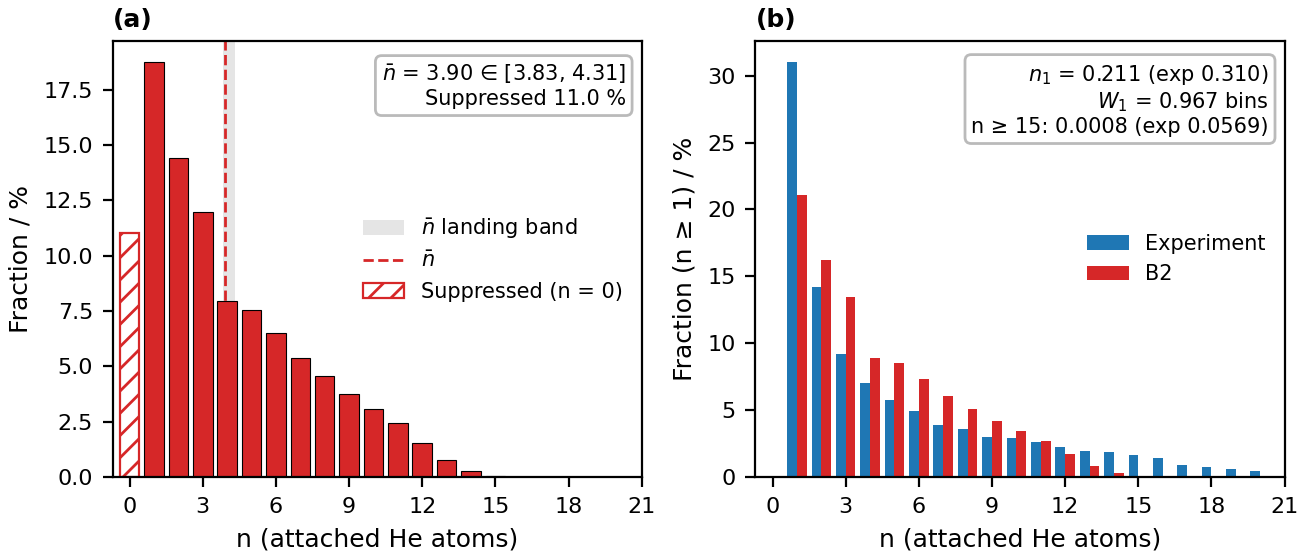
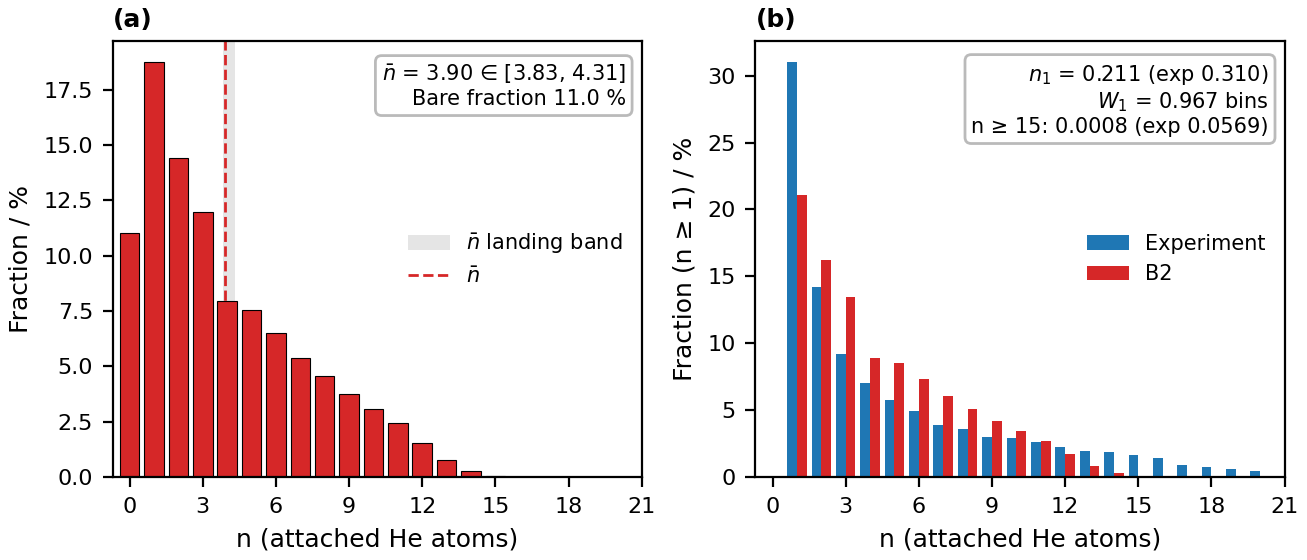
B2 thesis figures: decoupled pool, bare n = 0 bin (G13)
Figures B2-1..B2-4 now read data/runs/B2_N6000_pooled (decoupled release)
and anchor against the B2 row of g13_decoupled_table.csv. B2-1 (a): n = 0
drawn as a plain bar without legend entry, annotation "Bare fraction"
(n = 0 share of scored ions) replaces "Suppressed". Unused hatch style
removed; test for the bare bin added.

Changed region(s): [[0.2754, 0.3946, 0.4897, 0.5464], [0.0918, 0.3946, 0.1224, 0.85], [0.306, 0.1518, 0.4285, 0.2125]]

diff --git a/i2_helium_md/scripts/post_processing/tier2_b2_thesis_figure.py b/i2_helium_md/scripts/post_processing/tier2_b2_thesis_figure.py
@@ -1,13 +1,14 @@
 """Tier-2 thesis figures for the production law B2 (detected ensemble).
 
-Four figures, rendered from the pooled N = 6000 B2 container
-(``…g5lqppc160e3297pooled_th500``, s1-s5 + r6) at the thesis text width
+Four figures, rendered from the pooled N = 6000 B2 thesis container
+(``B2_N6000_pooled``, s1-s6, ``self_bound_gate_release = decoupled``,
+THESIS_FINAL_GOALS G13) at the thesis text width
 (``TEXTWIDTH_CM``) and written to ``data/figures/thesis_tier2/``. Pipeline
 vocabulary (scored / detected read, median anchor provenance, chi^2,
 smoothing window) lives in the captions, not on the figures:
 
 * **B2-1 size distribution** -- (a) scored histogram (droplet-retained
-  excluded; suppressed ions in the bare n = 0 bin, hatched), (b) solvated
+  excluded; bare I+ in the n = 0 bin, bare fraction annotated), (b) solvated
   branch (n >= 1 renormalized, RQ8) vs the experimental abundance, with
   n̄ against the MD landing band, n₁, W₁ and the n >= 15 mass annotated.
 * **B2-2 mean KE vs n** -- (a) n = 1-4 and (b) n = 5-17, linear, each on
@@ -37,9 +38,9 @@ B2-3); an override wins key by key
 Anchor guard: before drawing, every quoted scalar (n̄, suppressed, n₁,
 W₁, n >= 15 mass, midHot, deepKE, chi^2_med, KE₁, number of chi^2 bins,
 scored count) is
-checked against the committed B2 row of
-``data/runs/h2b_forward_model/g5_winners_table_ihekedv2.csv`` (scored
-against the corrected ihe_ked reference v2, G12) to 4 dp; a mismatch raises.
+checked against the decoupled B2 row of
+``data/runs/h2b_forward_model/g13_decoupled_table.csv`` (v2 scorer, the
+corrected ihe_ked reference, G12) to 4 dp; a mismatch raises.
 
 Edit the ``USER SETTINGS`` block and run::
 
@@ -65,13 +66,10 @@ for _p in (PROJECT_ROOT, _SCRIPT_DIR):
 # =============================================================================
 # USER SETTINGS
 # =============================================================================
-RUN_DIR: Path = (
-    PROJECT_ROOT / "data" / "runs"
-    / "9A_drag_srho3p5A18A_linear_quadratic_N6000_detfix_conf270_g5lqppc160e3297pooled_th500"
-)
-# G12: scored against the corrected ihe_ked reference (v2, 2026-10-23)
-WINNERS_CSV: Path = PROJECT_ROOT / "data" / "runs" / "h2b_forward_model" / "g5_winners_table_ihekedv2.csv"
-WINNERS_LABEL: str = "B2_pp_c160"
+RUN_DIR: Path = PROJECT_ROOT / "data" / "runs" / "B2_N6000_pooled"
+# G13: decoupled rows, v2 scorer (corrected ihe_ked reference, G12)
+WINNERS_CSV: Path = PROJECT_ROOT / "data" / "runs" / "h2b_forward_model" / "g13_decoupled_table.csv"
+WINNERS_LABEL: str = "B2"
 ANCHOR_CHECK: bool = True
 IHE_KED_REFERENCE_DIR: Path = PROJECT_ROOT / "data" / "reference" / "ihe_ked"
 ABUNDANCE_REF_PATH: Path = PROJECT_ROOT / "data" / "reference" / "integrated_i_he_abundance.csv"
@@ -109,7 +107,6 @@ FIG_B2_1: dict = {
     "n_xlim": (-0.7, 21.0),
     "bar_width_scored": 0.8,
     "bar_width_pair": 0.4,
-    "suppressed_hatch": "///",
     "show_landing_band": True,
     "annot_scored": True,
     "annot_solvated": True,
@@ -174,8 +171,8 @@ FIG_B2_2_SPLIT: dict = {
 
 FIG_B2_3: dict = {
     # The plot_detection_summary ihe_ked curve section for n = 1..6 (3 x 2)
-    # with the speed axis in Å/ps; n = 0 (suppressed vs bare I+) is a
-    # different population and is left out.
+    # with the speed axis in Å/ps; n = 0 (bare I+) is a different
+    # population and is left out.
     "stem": "b2_3_ked_shapes",
     "representation": "3d",              # "3d" (P(v)) | "2d" (detector projection)
     "n_values": (1, 2, 3, 4, 5, 6),      # n 5-7: extended exports, not verified
@@ -308,6 +305,7 @@ class SizeData:
     frac_ref_solv: np.ndarray
     n_mean: float
     suppressed_frac: float
+    bare_frac: float
     num_scored: int
     num_ions: int
     w1_solvated: float
@@ -320,16 +318,19 @@ class SizeData:
 def size_data(read, abundance, tail_n: int = FIG_B2_1["tail_n"]) -> SizeData:
     """Scorer read path of ``_section_detected_size_distribution``; the tail
     mass is the solvated share at ``n >= tail_n`` (the
-    ``mass_n15plus_solv`` column of ``tier2_g5_winners_table``)."""
+    ``mass_n15plus_solv`` column of ``tier2_g5_winners_table``); the bare
+    fraction is the n = 0 share of the scored histogram."""
     score = score_histogram_vs_reference(read, abundance)
     sim_n, sim_f = solvated_renormalized(read.n_values, read.fraction, n_min=score.n_min)
     ref_n, ref_f = solvated_renormalized(abundance.n, abundance.ion_fraction, n_min=score.n_min)
     sim_n, sim_f = np.asarray(sim_n), np.asarray(sim_f, dtype=float)
     ref_n, ref_f = np.asarray(ref_n), np.asarray(ref_f, dtype=float)
+    n_scored, frac_scored = np.asarray(read.n_values), np.asarray(read.fraction, dtype=float)
     return SizeData(
-        n_scored=np.asarray(read.n_values), frac_scored=np.asarray(read.fraction),
+        n_scored=n_scored, frac_scored=frac_scored,
         n_sim_solv=sim_n, frac_sim_solv=sim_f, n_ref_solv=ref_n, frac_ref_solv=ref_f,
         n_mean=float(read.n_mean), suppressed_frac=float(read.suppressed_frac),
+        bare_frac=float(frac_scored[n_scored == 0].sum()),
         num_scored=int(read.num_scored), num_ions=int(read.num_ions),
         w1_solvated=float(score.w1_solvated), sim_n1=float(score.sim_n1),
         ref_n1=float(score.ref_n1),
@@ -365,7 +366,7 @@ class KEData:
 def ke_data(read, ked_ref) -> KEData:
     """Same scorer kwargs as ``summary_sections._detected_ke_scores``;
     midHot / deepKE at their committed conventions (geometric / arithmetic,
-    ``min_count = 1``) -- the values in ``g5_winners_table.csv``."""
+    ``min_count = 1``) -- the values in ``g13_decoupled_table.csv``."""
     ke = read.ke_by_n(min_count=1)
     keep = ke.n >= DETECTED_KE_N_MIN
     chi2 = score_ke_curve_vs_reference(
@@ -454,7 +455,7 @@ def pv_data(view, ked_dir: Path, ked_ref, n: int, representation: str) -> PvData
 # Anchor guard
 # =============================================================================
 def anchor_values(size: SizeData, ke: KEData) -> dict[str, float]:
-    """The scalars the figures quote, keyed by ``g5_winners_table.csv`` column."""
+    """The scalars the figures quote, keyed by ``g13_decoupled_table.csv`` column."""
     ke1 = ke.mean_eV[ke.n == 1]
     return {
         "num_scored": size.num_scored,
@@ -498,18 +499,14 @@ def _annot(ax, text: str, st: dict, loc, ha="right", va="top") -> None:
 
 
 def draw_size_scored(ax, d: SizeData, st: dict) -> None:
-    """Scored histogram; the n = 0 (suppressed / bare-candidate) bar hatched."""
-    bare = d.n_scored == 0
-    ax.bar(d.n_scored[~bare], 100.0 * d.frac_scored[~bare], width=st["bar_width_scored"],
+    """Scored histogram, n = 0 (bare I+) included; bare fraction annotated."""
+    ax.bar(d.n_scored, 100.0 * d.frac_scored, width=st["bar_width_scored"],
            edgecolor="black", linewidth=0.4, **st["sim"])
-    ax.bar(d.n_scored[bare], 100.0 * d.frac_scored[bare], width=st["bar_width_scored"],
-           facecolor="white", edgecolor=st["sim"]["color"], hatch=st["suppressed_hatch"],
-           linewidth=0.8, label="Suppressed (n = 0)")
     if st["annot_scored"]:
         lo, hi = NBAR_LANDING
         flag = "∈" if lo <= d.n_mean <= hi else "∉"
         _annot(ax, rf"$\bar n$ = {d.n_mean:.2f} {flag} [{lo:.2f}, {hi:.2f}]" "\n"
-                   f"Suppressed {100.0 * d.suppressed_frac:.1f} %", st, st["annot_loc"])
+                   f"Bare fraction {100.0 * d.bare_frac:.1f} %", st, st["annot_loc"])
     if st["show_landing_band"]:
         ax.axvspan(*NBAR_LANDING, zorder=0, alpha=2 * st["band_shade_alpha"], linewidth=0,
                    label=r"$\bar n$ landing band", **st["band"])

diff --git a/i2_helium_md/tests/test_tier2_b2_thesis_figure.py b/i2_helium_md/tests/test_tier2_b2_thesis_figure.py
@@ -194,6 +194,24 @@ class TestBuilders:
         finally:
             plt.close(fig)
 
+    def test_b2_1_bare_bin_is_a_plain_bar_with_bare_fraction(self, mod, inputs):
+        # G13: n = 0 is bare I+ -- drawn like every other bar (no hatch, no
+        # legend entry) and annotated as the n = 0 share of the scored ions
+        d = mod.size_data(inputs["read"], inputs["abundance"])
+        assert d.bare_frac == pytest.approx(d.frac_scored[d.n_scored == 0].sum())
+        assert d.bare_frac > 0.0
+        fig = mod.build_b2_1(d)
+        try:
+            ax = fig.axes[0]
+            assert all(not p.get_hatch() for p in ax.patches)   # bars + landing band
+            labels = ax.get_legend_handles_labels()[1]
+            assert not any("Suppressed" in lab or "n = 0" in lab for lab in labels)
+            texts = [t.get_text() for t in ax.texts]
+            assert any(f"Bare fraction {100.0 * d.bare_frac:.1f} %" in t for t in texts)
+            assert not any("Suppressed" in t for t in texts)
+        finally:
+            plt.close(fig)
+
     def test_b2_2_split_matches_section(self, mod, sections):
         assert mod.FIG_B2_2["split_n"] == sections.IHE_KED_MEAN_ENERGY_SPLIT_N
 
